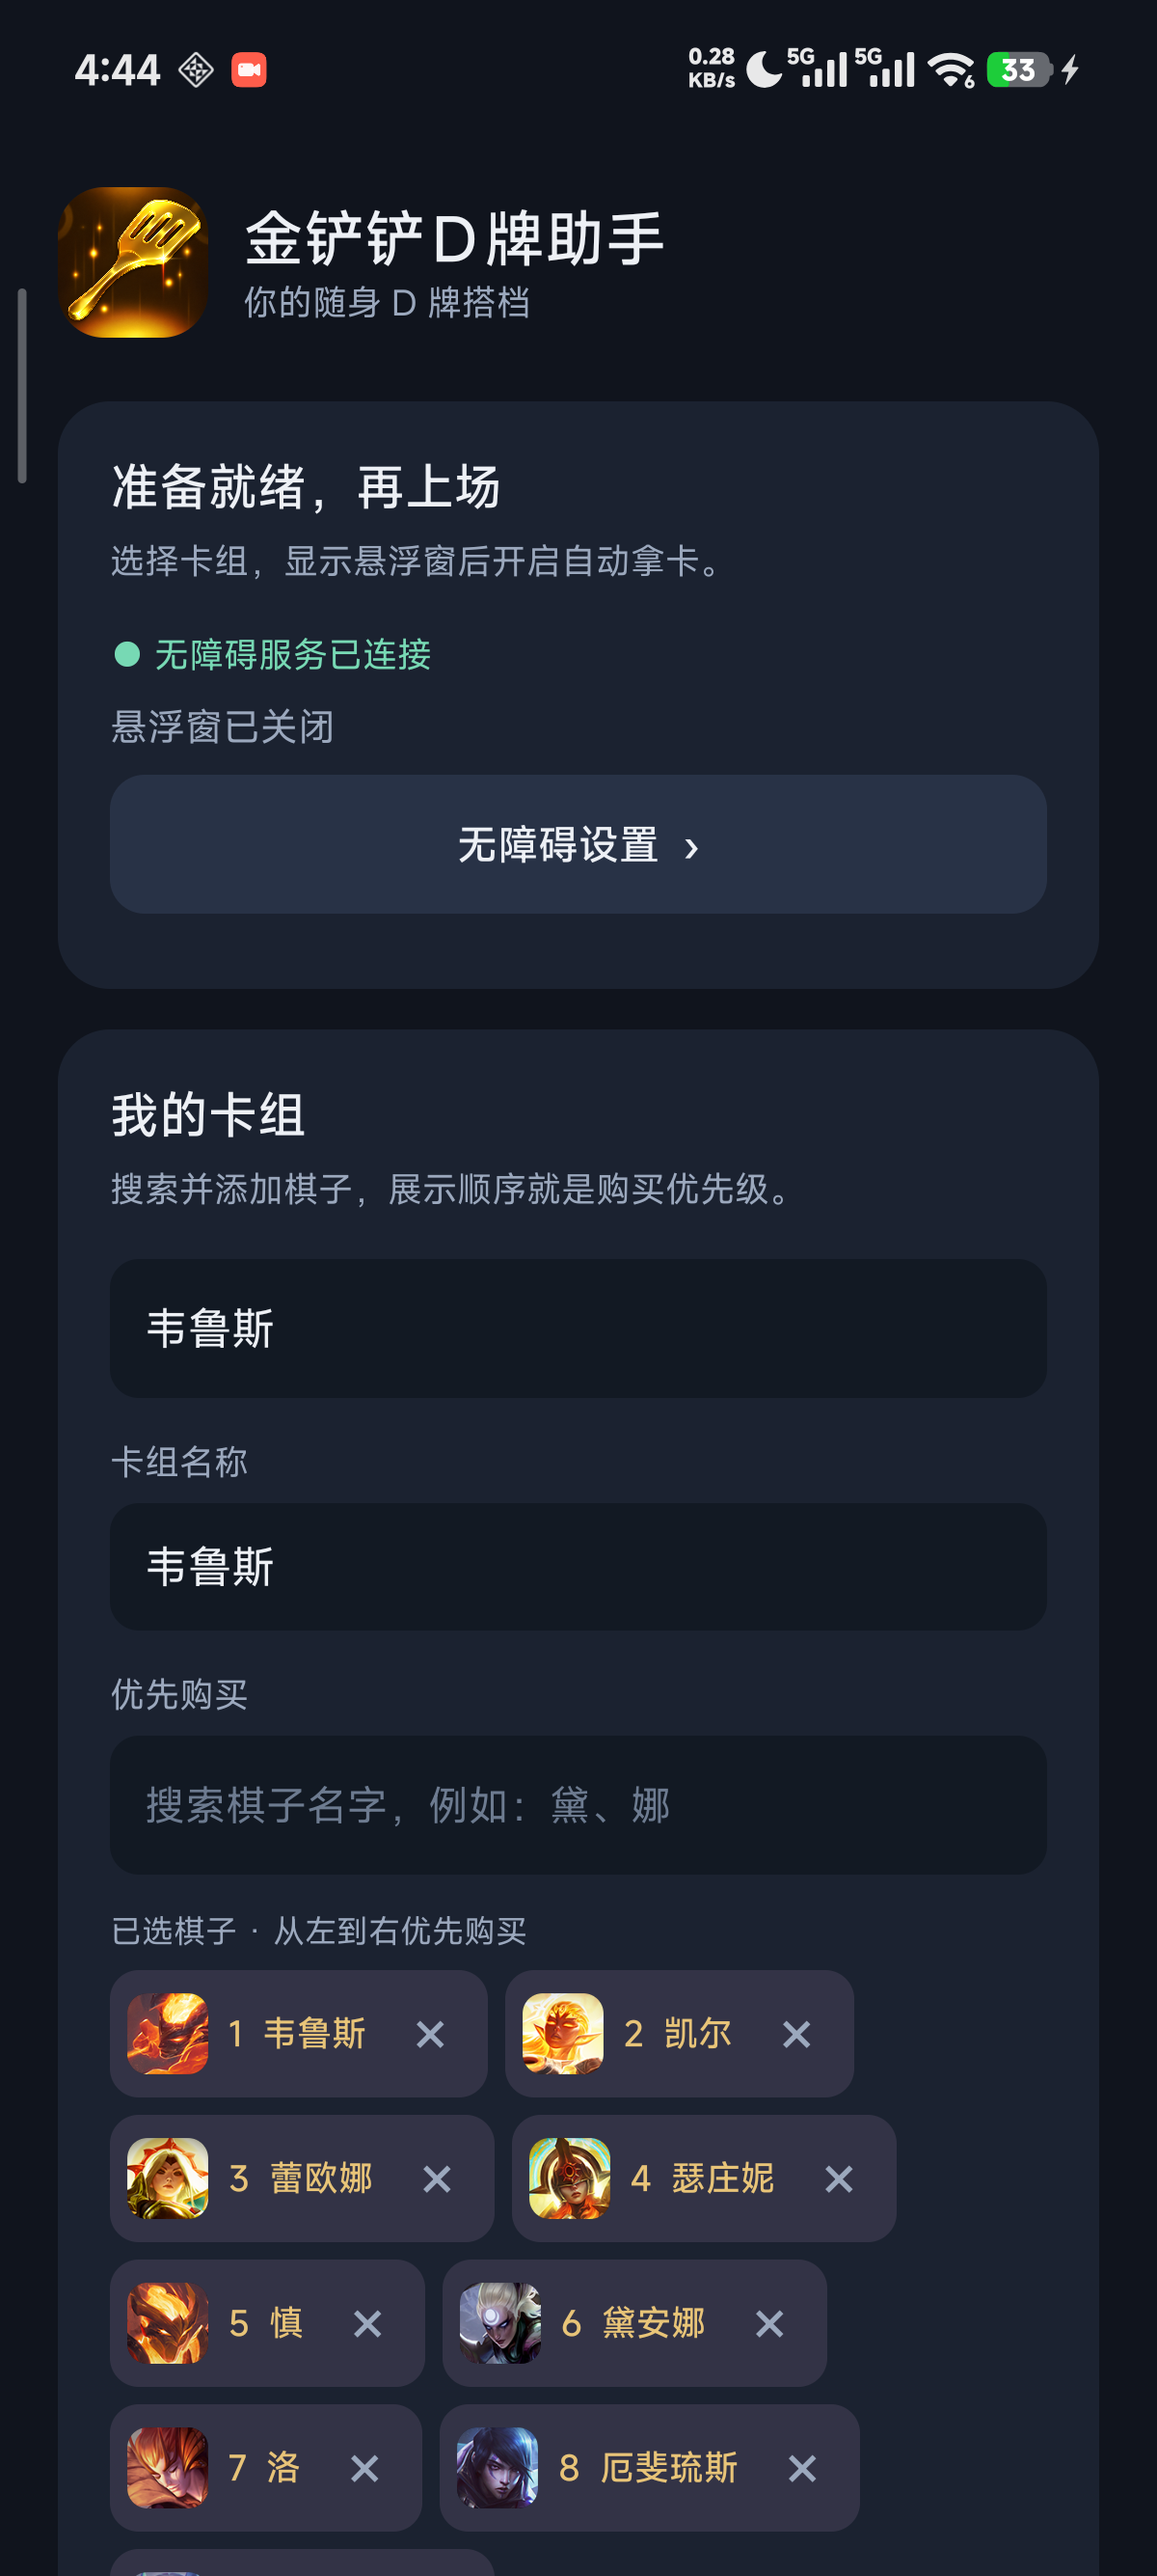
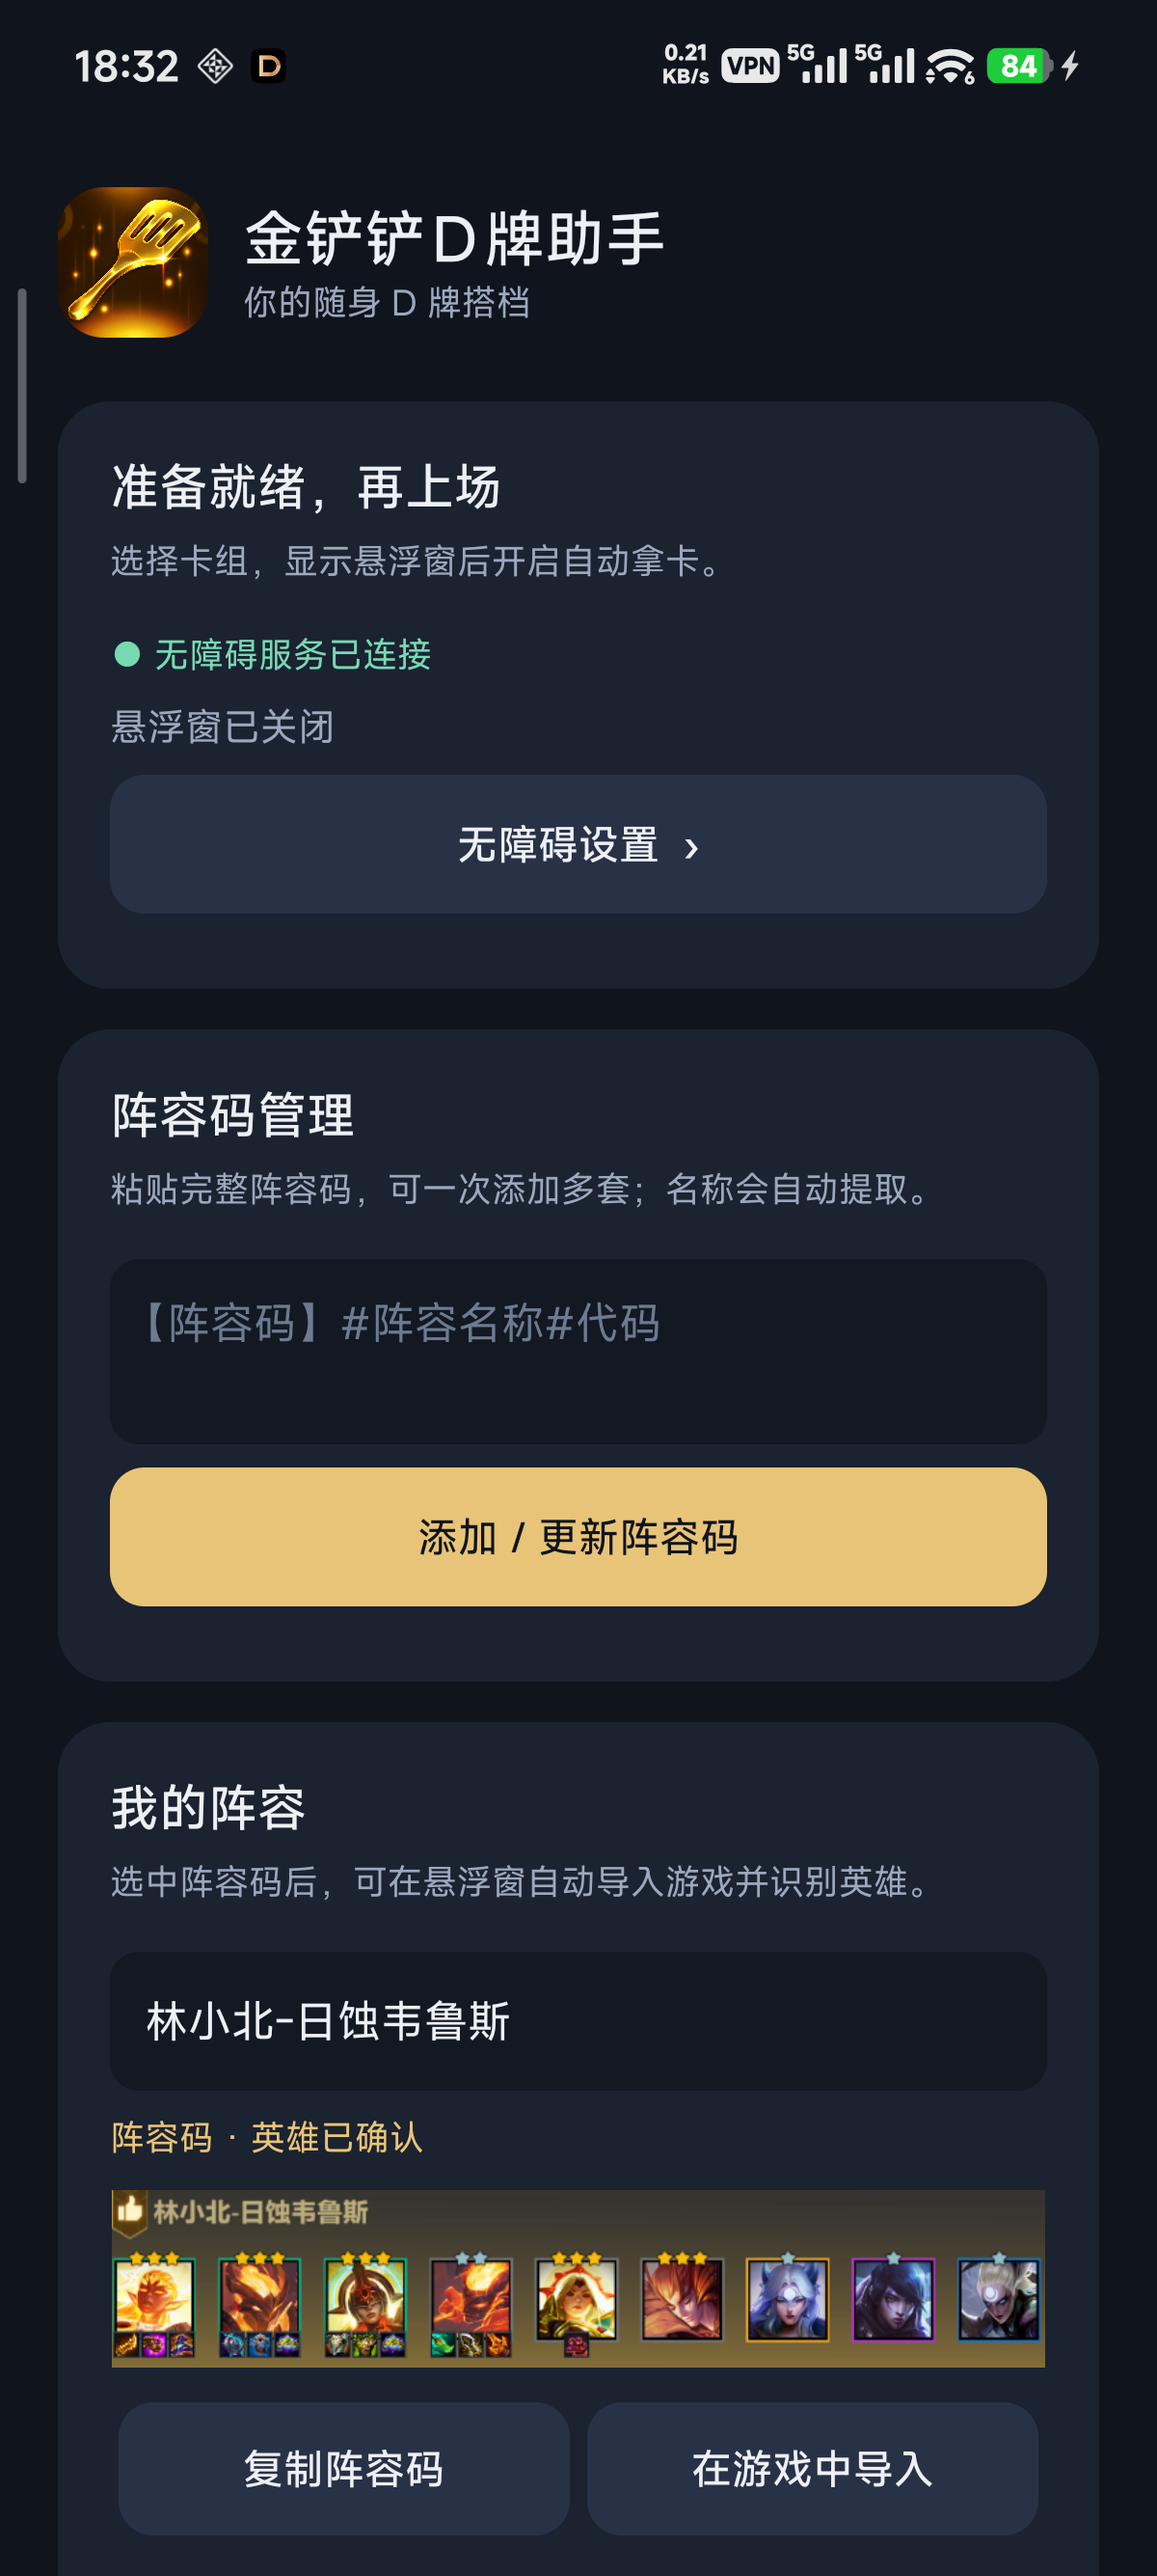
Refresh README screenshots for formation code workflow in v0.10.0

diff --git a/README.md b/README.md
@@ -84,11 +84,15 @@
 
 ## 界面预览
 
-以下为 v0.9.5 实机截图，悬浮面板截图中的自动拿卡、自动刷新均处于关闭状态。
+以下为 **v0.10.0 测试版 / 小米 14 实机截图**。阵容详情展示了导入后的本地阵容图与英雄购买名单；悬浮面板中自动拿卡关闭、自动刷新开启，刷新留金为 0，仅用于展示当前设置，不代表默认值。
 
-| 首页与卡组 | 运行设置 | 悬浮控制面板 |
-| --- | --- | --- |
-| <img src="docs/screenshots/main.png" alt="首页、卡组搜索与带头像的已选棋子" width="280"> | <img src="docs/screenshots/settings.png" alt="自动刷新、保留金币和仅识别设置" width="280"> | <img src="docs/screenshots/overlay.png" alt="悬浮面板的卡组选择、开关、刷新留金与关闭按钮" width="280"> |
+| 阵容码管理首页 | 阵容预览与英雄名单 |
+| --- | --- |
+| <img src="docs/screenshots/main.png" alt="v0.10.0 首页：批量添加阵容码、自动提取名称与本地预览" width="320"> | <img src="docs/screenshots/lineup.png" alt="v0.10.0 阵容详情：紧凑阵容图、复制与导入按钮、可编辑英雄名单" width="320"> |
+
+| 运行偏好 | 悬浮阵容选择与控制 |
+| --- | --- |
+| <img src="docs/screenshots/settings.png" alt="v0.10.0 运行偏好：自动刷新、保留金币与仅识别设置" width="320"> | <img src="docs/screenshots/overlay.png" alt="v0.10.0 悬浮面板：当前阵容名、自动拿卡与刷新开关、留金输入和关闭按钮" width="320"> |
 
 ## 功能
 
